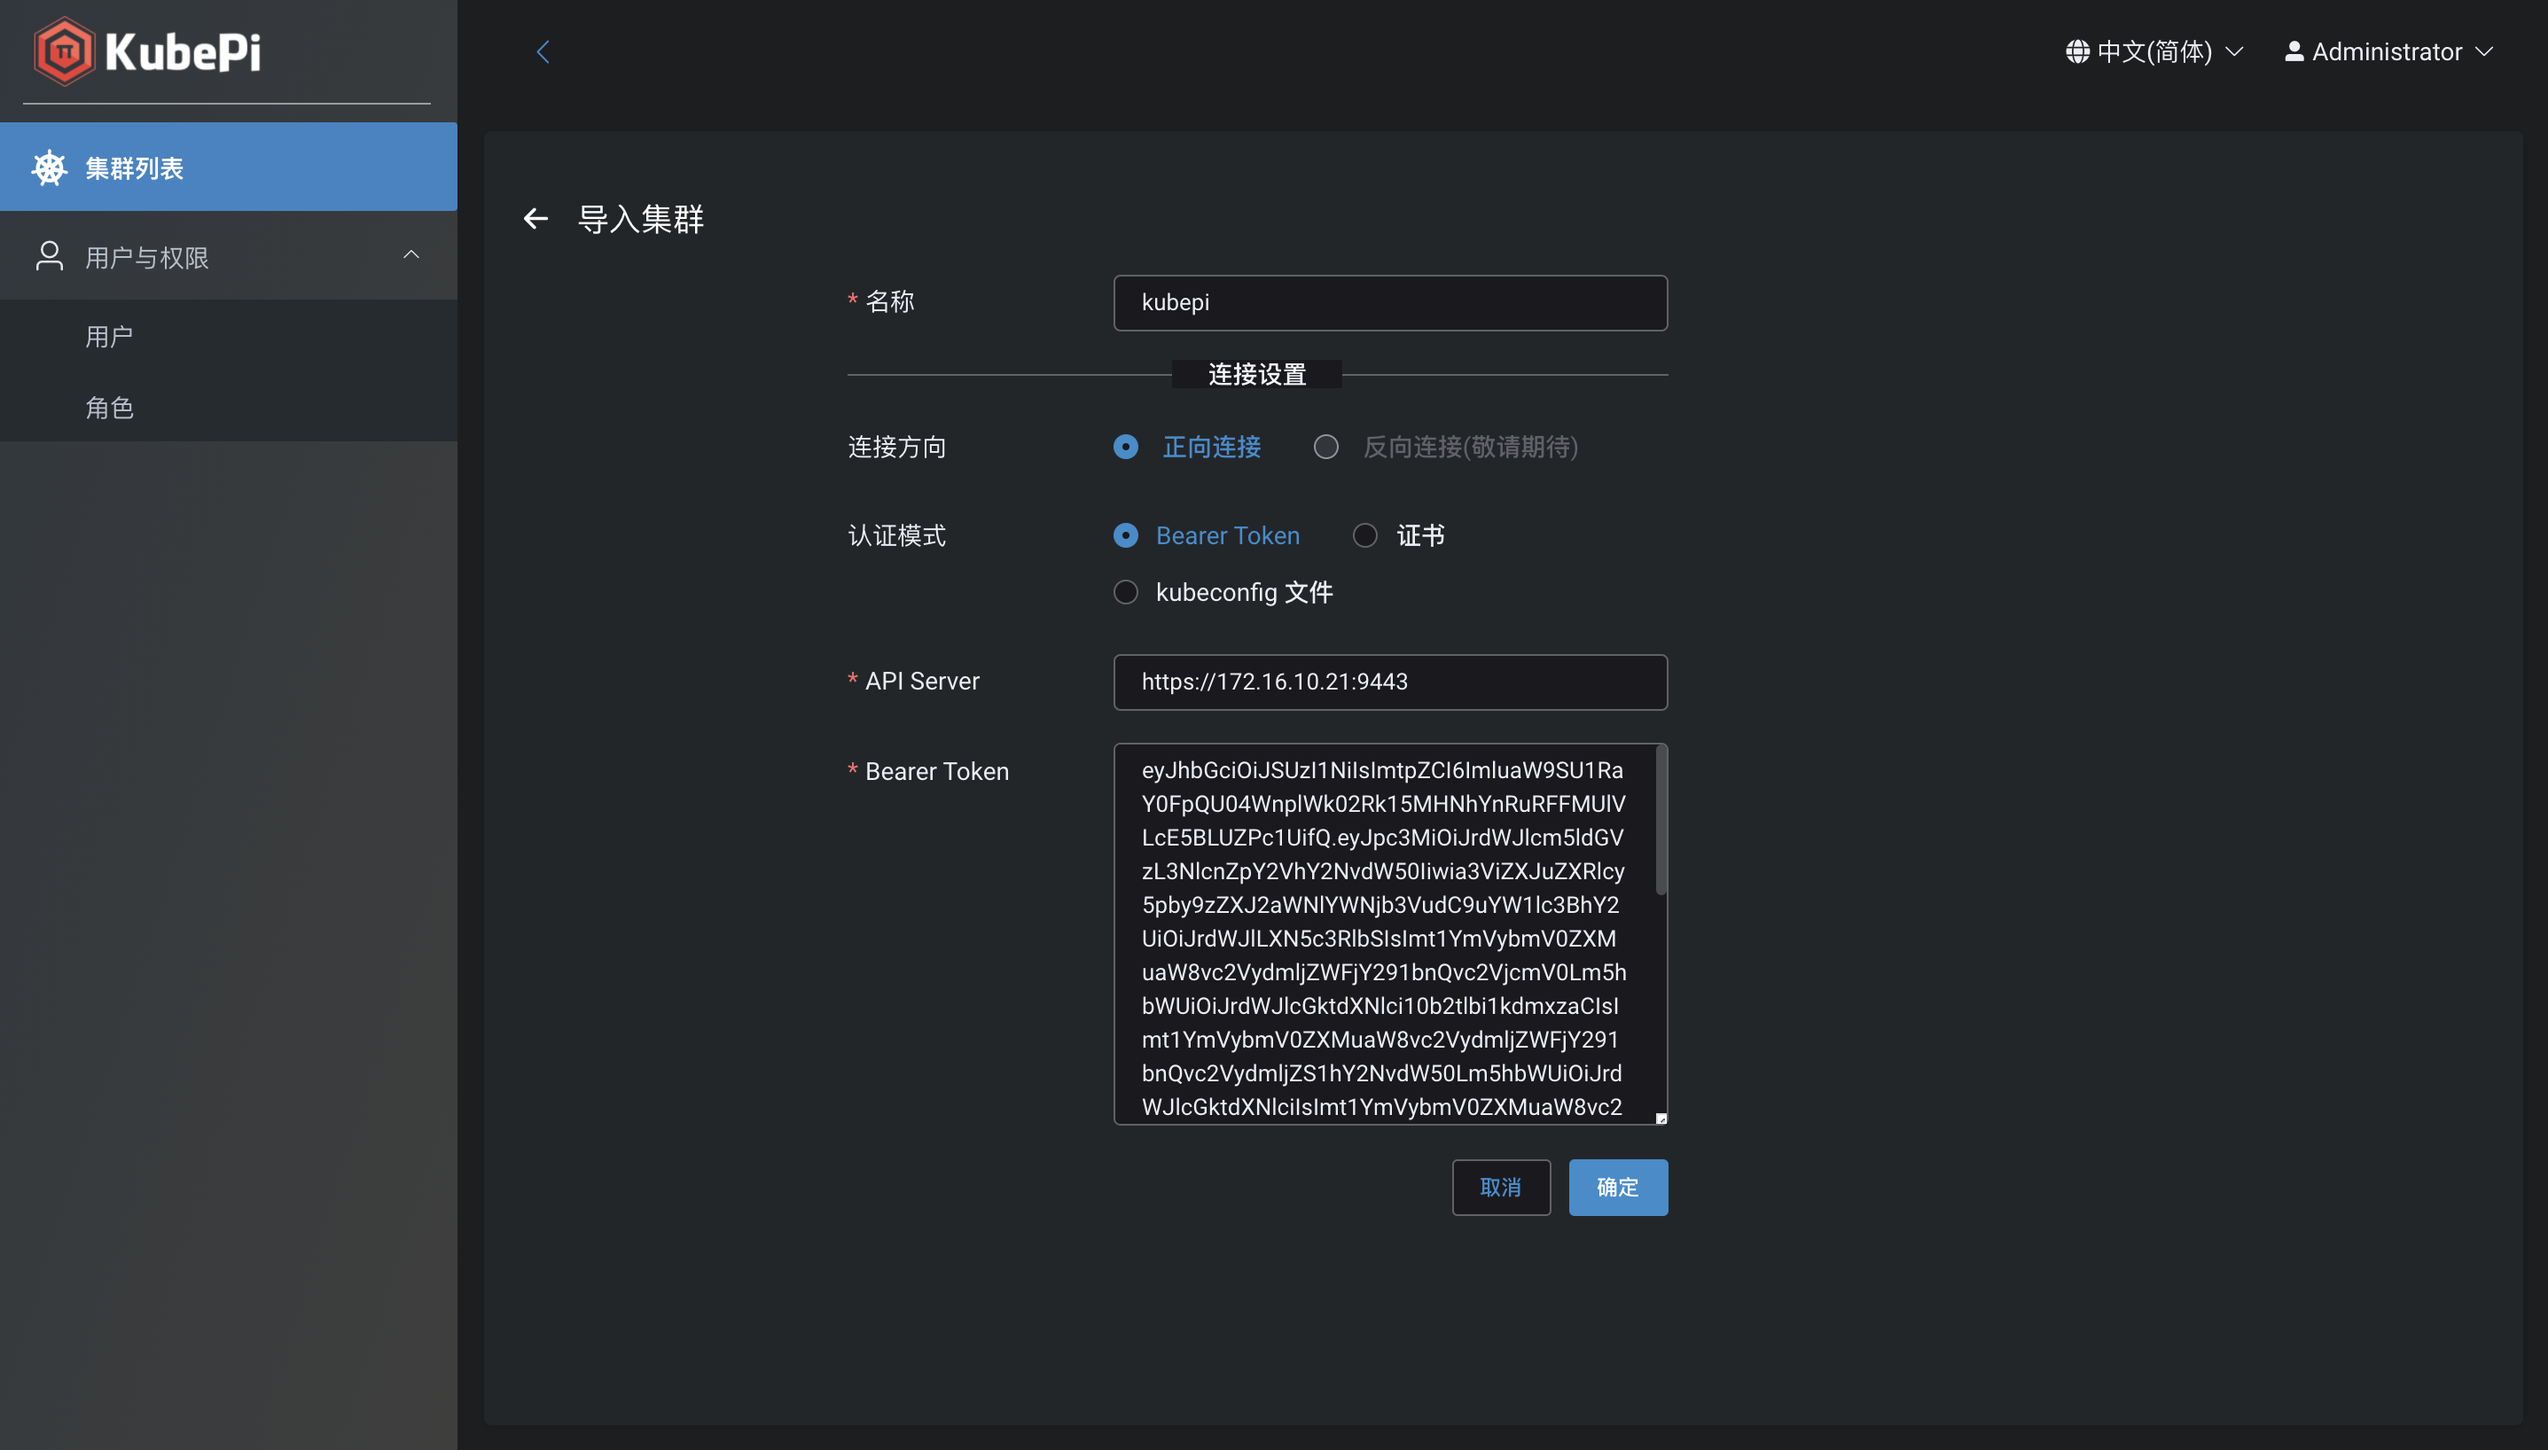
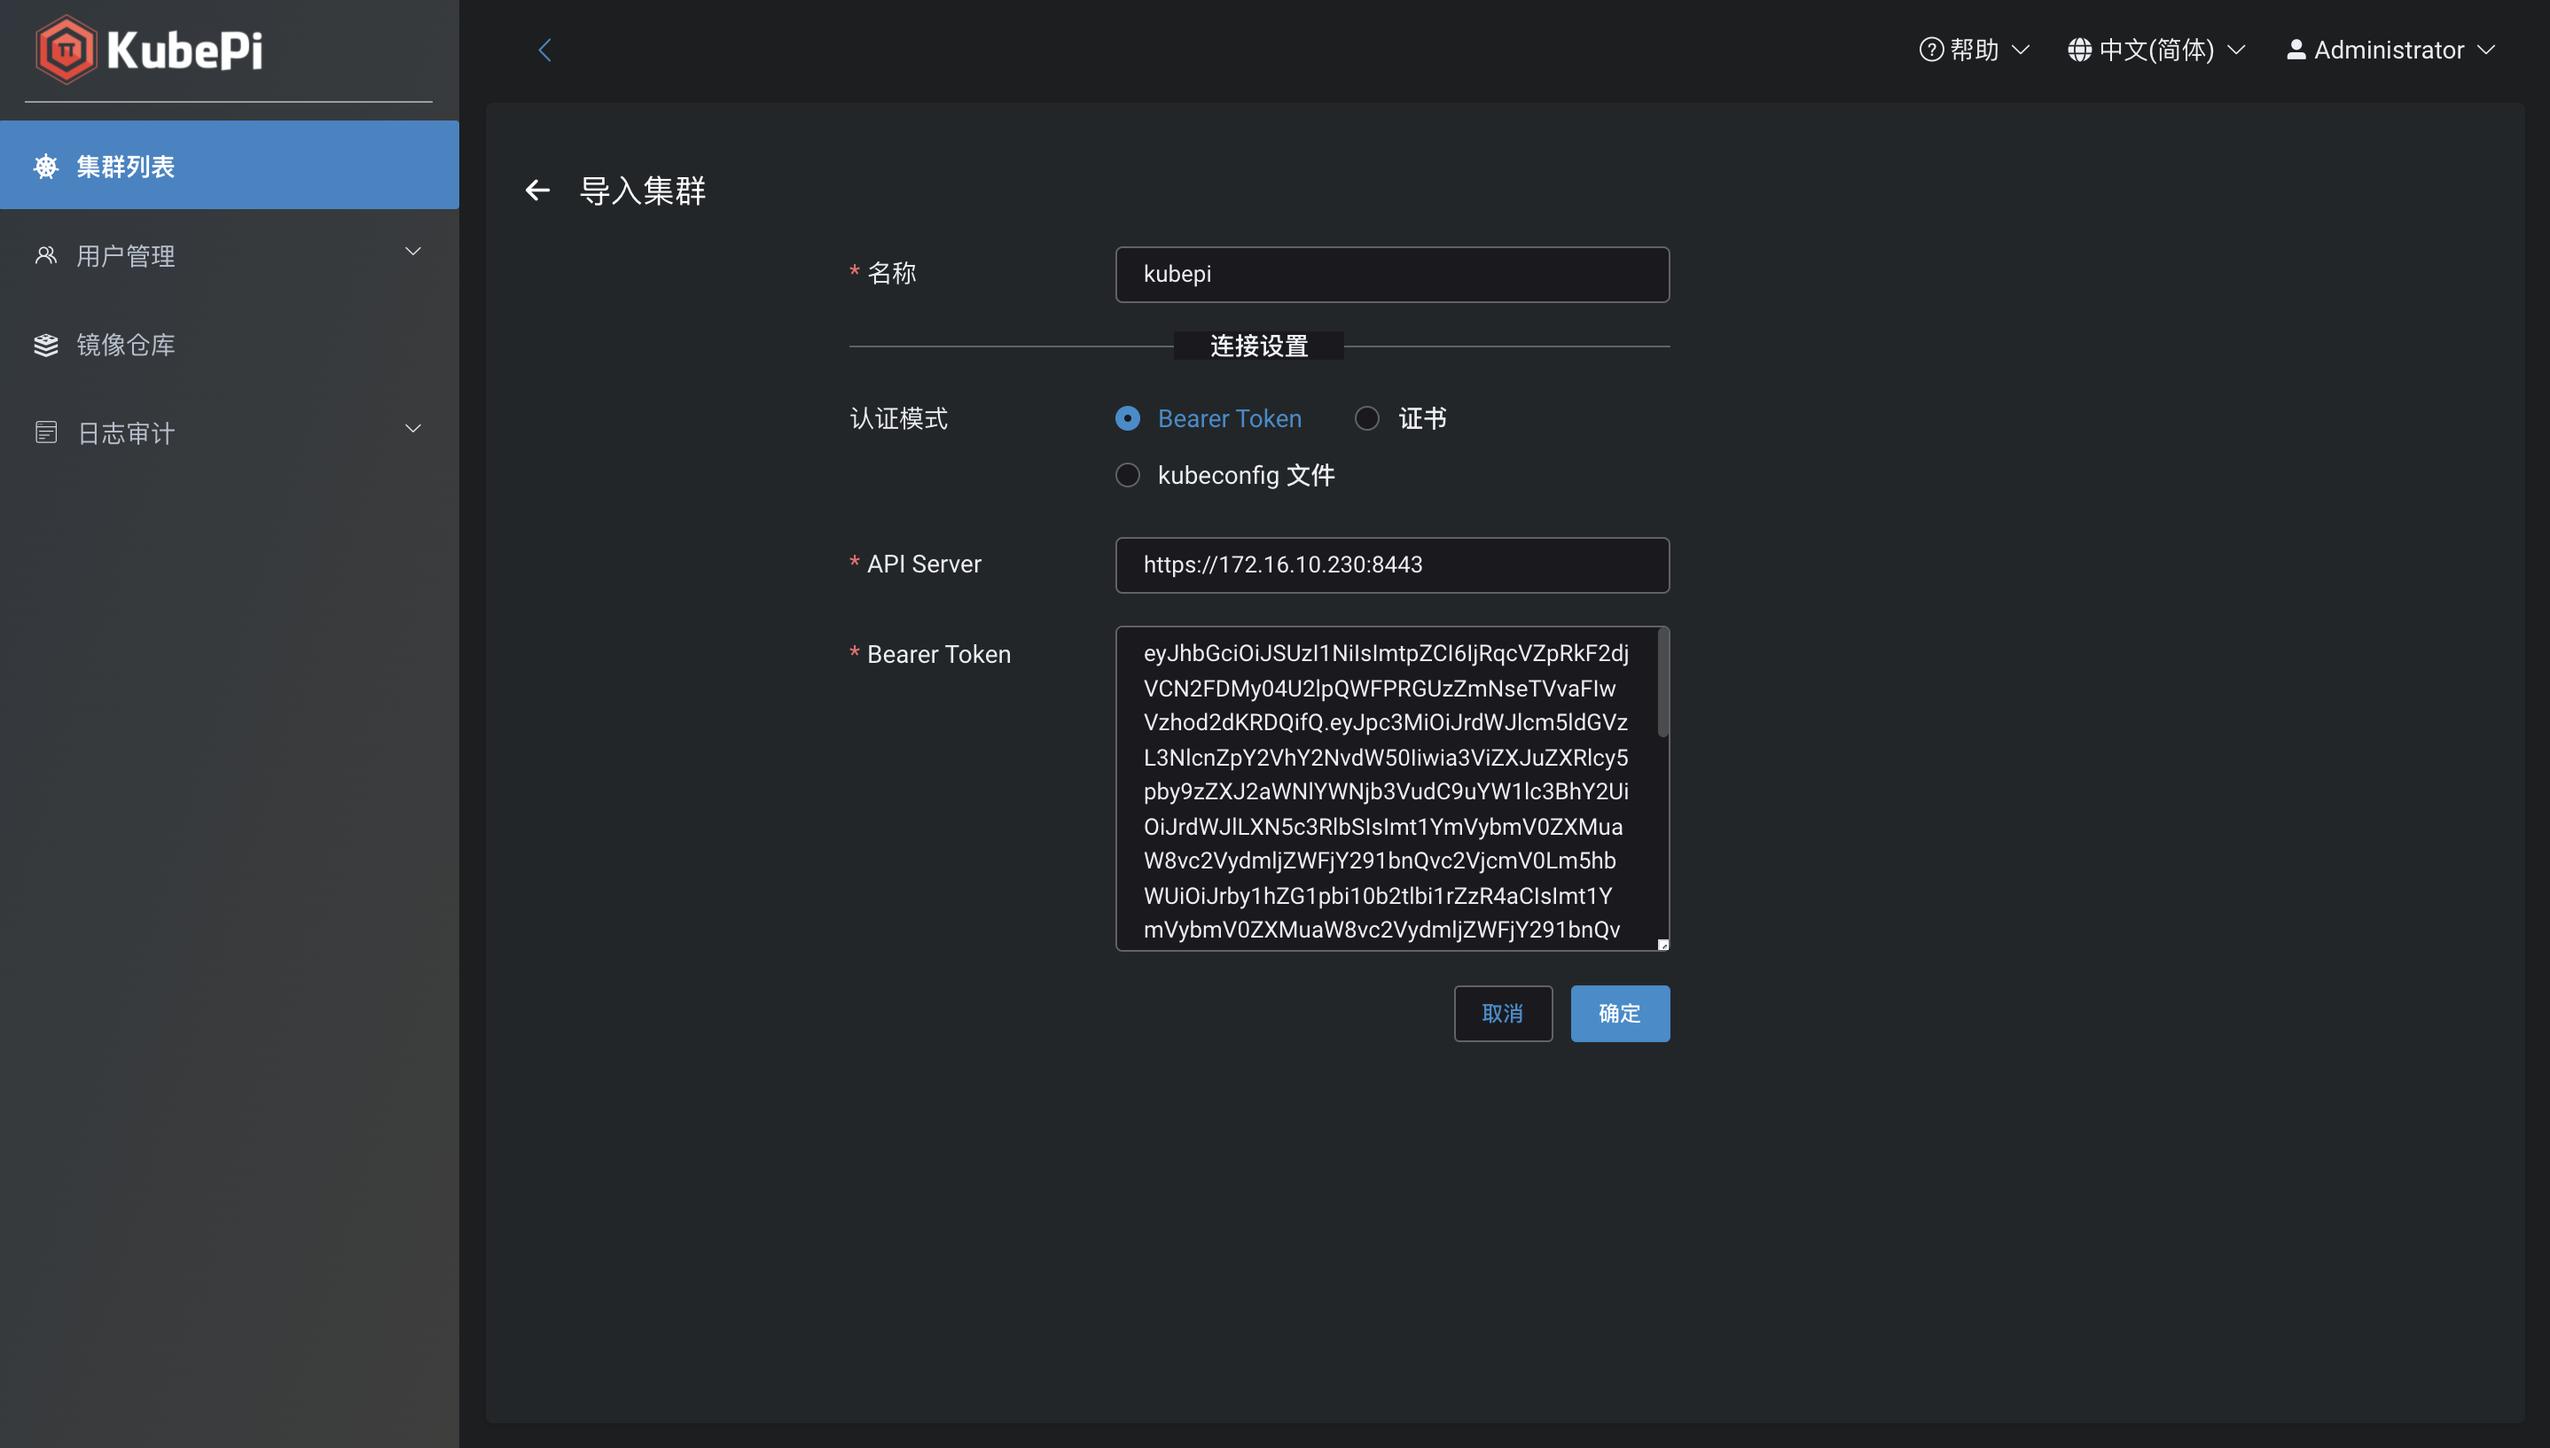
feat: KubePi v1.3.0 更新

diff --git a/docs/kubepi/cluster_import.md b/docs/kubepi/cluster_import.md
@@ -1,0 +1,97 @@
+
+### Bearer Token
+
+!!! warning "获取 apiserver 地址"
+    cat ～/.kube/config | grep server: | awk '{print $2}'
+
+    - 注意: 如果 server IP 为 127.0.0.1，需要将 IP 替换为集群 master 节点 IP
+
+!!! warning "获取 Token"
+
+    === "默认"
+
+        !!! warning ""
+
+            [KubeOperator][KubeOperator] 部署的 [Kubernetes][Kubernetes] 集群，可在集群任意节点上执行如下命令
+
+            ```shell
+            kubectl -n kube-system describe secret $(kubectl -n kube-system get secret | grep ko-admin | awk '{print $1}') | grep token: | awk '{print $2}'
+            ```
+
+        !!! warning ""
+
+            [Kubectl][Kubectl] 方式部署的 [KubePi][KubePi] 服务，在集群任意节点上执行如下命令
+
+            ```shell
+            kubectl -n kube-system describe secret $(kubectl -n kube-system get secret | grep kubepi-user | awk '{print $1}') | grep token: | awk '{print $2}'
+            ```
+
+    === "自定义"
+        
+        !!! warning ""
+            创建 Service Account
+
+            ```shell
+            cat <<EOF > kubepi-serviceaccount.yaml
+            apiVersion: v1
+            kind: ServiceAccount
+            metadata:
+              name: kubepi-user
+              namespace: kube-system
+            EOF
+            ```
+
+            ```shell
+            kubectl create -f ./kubepi-serviceaccount.yaml
+            ```
+
+        !!! warning ""
+            创建 ClusterRoleBinding
+
+            ```yaml
+            cat <<EOF > kubepi-clusterrolebinding.yaml
+            apiVersion: rbac.authorization.k8s.io/v1
+            kind: ClusterRoleBinding
+            metadata:
+              name: kubepi-user
+            roleRef:
+              apiGroup: rbac.authorization.k8s.io
+              kind: ClusterRole
+              name: cluster-admin
+            subjects:
+              - kind: ServiceAccount
+                name: kubepi-user
+                namespace: kube-system
+            EOF
+            ```
+
+            ```shell
+            kubectl create -f ./kubepi-clusterrolebinding.yaml
+            ```
+
+        !!! warning ""
+            获取 Token
+
+            ```shell
+            kubectl -n kube-system describe secret $(kubectl -n kube-system get secret | grep kubepi-user | awk '{print $1}') | grep token: | awk '{print $2}'
+            ```
+
+![cluster-import-token](../img/kubepi/cluster-import-token.png)
+
+### kubeconfig 文件
+
+!!! warning ""
+    将任意集群节点 kubeconfig 文件拷贝到本机后导入（默认路径为: ～/.kube/config）
+
+    - 注意: 如果 server IP 为 127.0.0.1，需要将 IP 替换为集群 master 节点 IP
+
+![cluster-import-kubeconfig](../img/kubepi/cluster-import-kubeconfig.png)
+
+### 证书
+
+![cluster-import-certificate](../img/kubepi/cluster-import-certificate.png)
+
+[KubePi]:https://github.com/KubeOperator/KubePi
+[Kubectl]:https://github.com/KubeOperator/KubePi/tree/master/docs/deploy/kubectl
+[KubeOperator]:https://github.com/KubeOperator/KubeOperator
+[Kubernetes]:https://kubernetes.io

diff --git a/docs/about/changelog.md b/docs/about/changelog.md
@@ -14,6 +14,37 @@
     * 在 v3.3 发布前，我们会同时维护 v3.0、v3.1、v3.2
     * 在 v3.3 发布后，我们会同时维护 v3.1、v3.2、v3.3；v3.0 会停止维护
 
+## v3.12.0
+------------------------
+2021年12月09日
+
+!!! info "支持 k8s 版本"
+    支持的 k8s 版本是 1.20.12、v1.18.20
+
+!!! info "新增功能"
+    - 集群列表集成 KubePi Dashboard
+    - 工具列表支持 OPA Gatekeeper
+
+!!! summary "功能优化"
+    - 界面设置功能优化（X-Pack）
+    - CIS 扫描功能重构
+    - 用户列表增加重置密码功能
+    - 集群导入取消 kubernetes 版本限制
+    - 初始化集群选择主机时默认主机名排序
+    - 集群 worker 节点扩容，增加初始化存储提供商步骤
+    - 自动模式创建可用区后定时刷新可用区状态
+
+!!! success "Bug 修复"
+    - 修复了自动模式创建虚拟机失败一直显示等待程序执行的问题
+    - 修复了由于 datastore 名称不符合规范导致服务器创建失败的问题
+    - 修复了 kubeconfig 文件 apiserver 默认地址不正确的问题
+    - 修复了系统设置中邮箱密码明文显示的问题
+    - 修复了创建虚拟机配置没有校验名称重复的问题
+
+!!! summary "组件更新"
+    - K8s: v1.20.12
+    - KubePi: v1.3.0
+
 ## v3.11.2
 ------------------------
 2021年11月11日

diff --git a/docs/kubepi/dashboard.md b/docs/kubepi/dashboard.md
@@ -6,16 +6,19 @@
 ## 工作负载
 
 !!! warning ""
-    - 图形化的工作负载编辑界面，让开发人员无需编写 Yaml 便可轻松、直观的完成应用的部署和管理。
-    - 支持 Yaml 文件导入导出、工作负载弹性伸缩、重启、快速更换镜像版本等功能。
-    - 当前支持表单创建的资源对象包括：NameSpace、Deployment、StatefulSet、DaemonSet、Job、CronJob、Service、Ingress、Engress、ConfigMap、Secret、PersistentVolumeClaim、PersistentVolume、Role、RoleBinding、ClusterRole、ClusterRoleBinding。
+    - 图形化的工作负载编辑界面，让开发人员无需编写 Yaml 便可轻松、直观的完成应用的部署和管理
+    - 支持 Yaml 文件导入导出、工作负载弹性伸缩、重启、快速更换镜像版本等功能
 
 ![workload-view](../img/kubepi/workload-view.png)
+
+![workload-operation](../img/kubepi/workload-operation.png)
 
 ## 终端与日志
 
 !!! warning ""
-    - 支持查看 Pod 指定容器日志，支持日志追踪和快速切换容器
+    - 支持查看 Pod 指定容器日志，支持日志追踪和快速切换容器，支持容器日志下载
     - 支持针对 Pod 指定容器执行 Shell 操作
+
+![pod-operation](../img/kubepi/pod-operation.png)
 
 ![terminal-log](../img/kubepi/terminal-log.png)

diff --git a/docs/kubepi/install.md b/docs/kubepi/install.md
@@ -1,7 +1,4 @@
 
-!!! info ""
-    [KubePi][KubePi] 可以使用 docker run 命令在容器内运行。它也可以使用 kubectl 安装在 [Kubernetes][Kubernetes] 集群上。
-
 ## 安装说明
 
 === "docker"
@@ -91,8 +88,7 @@
         [root@kubepi ~]# mkdir -p /opt/kubepi/db
 
         # 拷贝容器内持久化文件
-        # 注意：替换 kubepi_container_id
-        [root@kubepi ~]# docker cp kubepi_container_id:/var/lib/kubepi/db/kubepi.db /opt/kubepi/db/
+        [root@kubepi ~]# docker cp <CONTAINER_ID>:/var/lib/kubepi/db/kubepi.db /opt/kubepi/db/
         ```
 
     !!! info "升级"
@@ -102,9 +98,8 @@
         [root@kubepi ~]# docker pull kubeoperator/kubepi-server:latest
 
         # 停止 kubepi 服务（需要用到kubepi container id）
-        # 注意：替换 kubepi_container_id
-        [root@kubepi ~]# docker stop kubepi_container_id
-        [root@kubepi ~]# docker rm kubepi_container_id
+        [root@kubepi ~]# docker stop <CONTAINER_ID>
+        [root@kubepi ~]# docker rm <CONTAINER_ID>
 
         # 启动服务
         [root@kubepi ~]# sudo docker run --privileged -d -v /opt/kubepi:/var/lib/kubepi --restart=unless-stopped -p 80:80 kubeoperator/kubepi-server

diff --git a/docs/kubepi/rbac.md b/docs/kubepi/rbac.md
@@ -4,10 +4,8 @@
 !!! warning ""
     系统会初始化 admin 超级管理员（默认密码 kubepi），拥有系统所有资源的管理权限
 
-### 创建用户
-
 !!! warning ""
-    创建用户user1，拥有集群管理员和角色与用户管理员角色
+    创建用户 user1，拥有集群管理员和用户管理员角色
 
 ![create-user](../img/kubepi/create-user.png)
 
@@ -21,9 +19,14 @@
 
 ![role-index](../img/kubepi/role-index.png)
 
-### 创建角色
-
 !!! warning ""
-    创建角色role1，拥有集群、用户、角色的所有操作权限
+    创建角色 role1，拥有用户、角色、镜像仓库和系统日志的所有操作权限
 
 ![create-role](../img/kubepi/create-role.png)
+
+## LDAP
+
+!!! warning ""
+    管理员可以将 LDAP 外部用户系统中的用户同步到系统中，同时允许最终用户在登录 KubePi 时使用其 LDAP 凭据进行身份验证
+
+![ldap](../img/kubepi/ldap.png)

diff --git a/docs/kubepi/cluster_authorization.md b/docs/kubepi/cluster_authorization.md
@@ -1,0 +1,31 @@
+
+!!! warning ""
+    - 集群列表页点击授权按钮
+
+![cluster-authorization](../img/kubepi/cluster-authorization.png)
+
+### 成员
+
+!!! warning ""
+    - 将用户添加为集群成员并为其指定集群和命名空间角色
+
+![cluster-authorization](../img/kubepi/cluster-authorization.png)
+
+#### 集群角色
+
+!!! warning ""
+    - 管理员: 拥有集群所有资源的操作权限
+    - 只读者: 拥有集群所有资源的只读权限
+    - 自定义: 拥有集群指定资源的指定权限
+
+#### 命名空间角色
+
+!!! warning ""
+    - 需要将集群角色选择为自定义
+
+### 仓库
+
+!!! warning ""
+    将已创建的镜像仓库授权到目标集群
+
+    - 注意: 创建工作负载时选择的镜像仓库需要在此处授权

diff --git a/docs/kubepi/registry.md b/docs/kubepi/registry.md
@@ -1,0 +1,20 @@
+
+!!! warning ""
+    - 支持 Harbor、Nexus、Docker Registry三种类型
+    - 创建 Workloads 时可以选择镜像仓库中已有镜像
+
+![registry](../img/kubepi/registry.png)
+
+!!! warning "地址"
+    镜像仓库服务地址，供 KubePi 调用仓库 Rest API 时使用
+
+!!! warning "镜像库"
+    - Nexus: 对应系统中 docker 类型的 repositories
+    - Harbor: 对应系统中项目（Project）
+
+!!! warning "镜像下载地址"
+    镜像名称前缀，格式一般是 <域名/IP>[:端口号]
+
+!!! warning "允许匿名docker pull"
+    - 是: 创建 workload 时，不需要指定 docker registry 类型 secrets
+    - 否: 创建 workload 时，系统会自动生成 docker registry 类型 secrets 并绑定到 workload

diff --git a/docs/quick_start/cluster_import.md b/docs/quick_start/cluster_import.md
@@ -3,8 +3,7 @@
 
 !!! warning ""
     - 支持导入非 KubeOperator 创建的集群
-    - 非 KubeOperator 创建的集群不支持扩缩容、升级、备份等 Day2 操作
-    - 导入集群版本要在 KubeOperator 支持的版本范围内，参考: [版本管理](../user_manual/version.md#_4)
+    - 导入非 KubeOperator 创建的集群不支持扩缩容、升级、备份等 Day2 操作
 
 ![cluster-import](../img/user_manual/cluster/cluster-import.png)
 
@@ -13,7 +12,7 @@
 
 !!! warning "获取 Api Server"
     ```shell
-    cat /root/.kube/config | grep server: | awk '{print $2}'
+    cat ~/.kube/config | grep server: | awk '{print $2}'
     ```
 
     注意：如果 server IP 为 127.0.0.1，需要将 IP 替换为任意 master 节点 IP

diff --git a/docs/user_manual/cluster.md b/docs/user_manual/cluster.md
@@ -156,7 +156,8 @@
 ### 集群扩容、缩容
 
 !!! warning "worker 节点扩容"
-    手动模式选择要添加的主机，自动模式输入扩容后 worker 节点数量
+    - 手动模式需要选择要添加的主机（主机需要在项目管理中授权到目标集群，并且主机状态为运行中）
+    - 自动模式输入要扩容 worker 节点的数量
 
 ![node-3](../img/user_manual/cluster/node-3.png)
 

diff --git a/docs/kubepi/log_audit.md b/docs/kubepi/log_audit.md
@@ -1,0 +1,7 @@
+
+!!! warning "登录日志"
+    记录了用户名、登录IP、登录城市等信息，并支持高级搜素
+
+!!! warning "操作日志"
+    - 记录了用户针对不同类型对象的具体操作，并支持高级搜索
+    - 资源类型：集群、集群成员、用户、镜像仓库

diff --git a/docs/installation/install.md b/docs/installation/install.md
@@ -33,7 +33,7 @@
                 <td>4</td>
                 <td>8G</td>
                 <td>100G</td>
-                <td>3</td>
+                <td>1</td>
             </tr>
         <tbody>
     </table>

diff --git a/docs/user_manual/version.md b/docs/user_manual/version.md
@@ -52,7 +52,7 @@
             <td>v1.20.4</td>
             <td>v1.20.6</td>
             <td>v1.20.8</td>
-            <td></td>
+            <td>v1.20.10</td>
         </tr>
     <tbody>
 </table>
